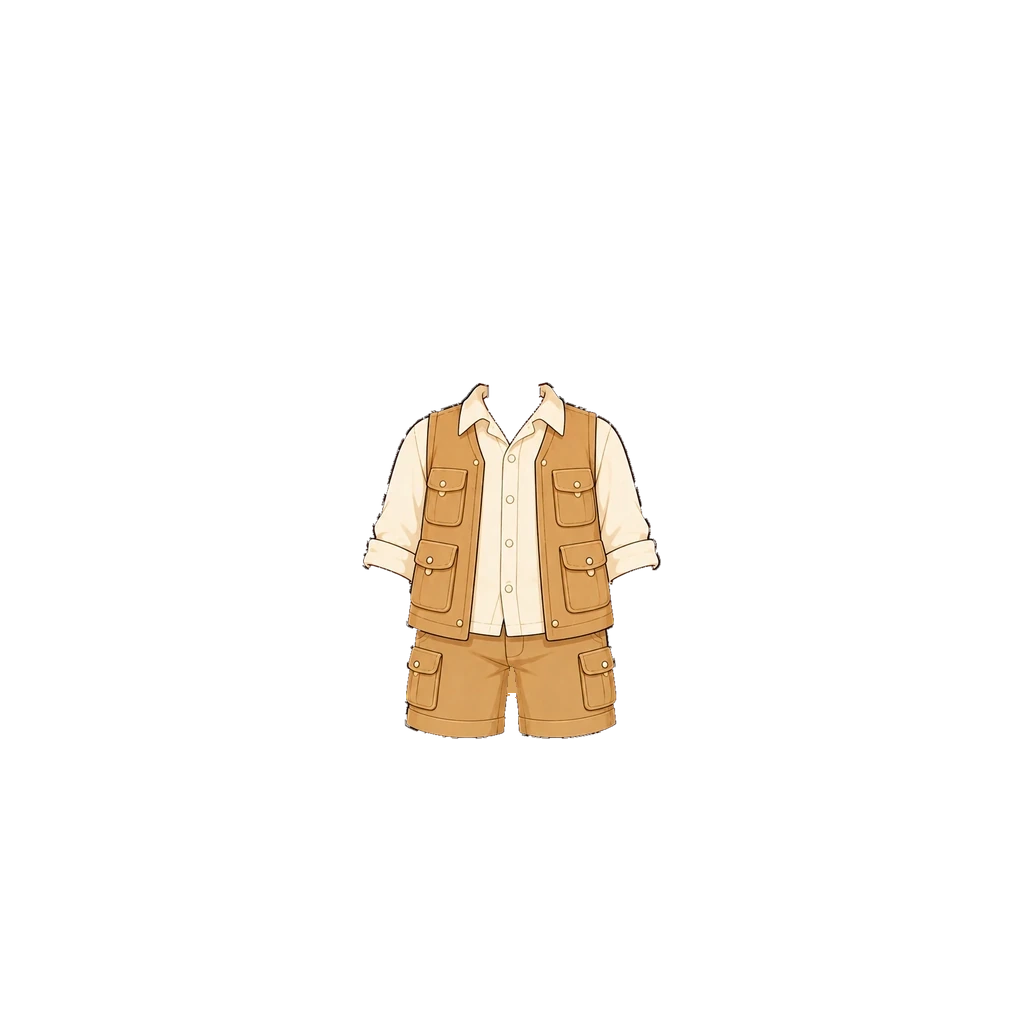
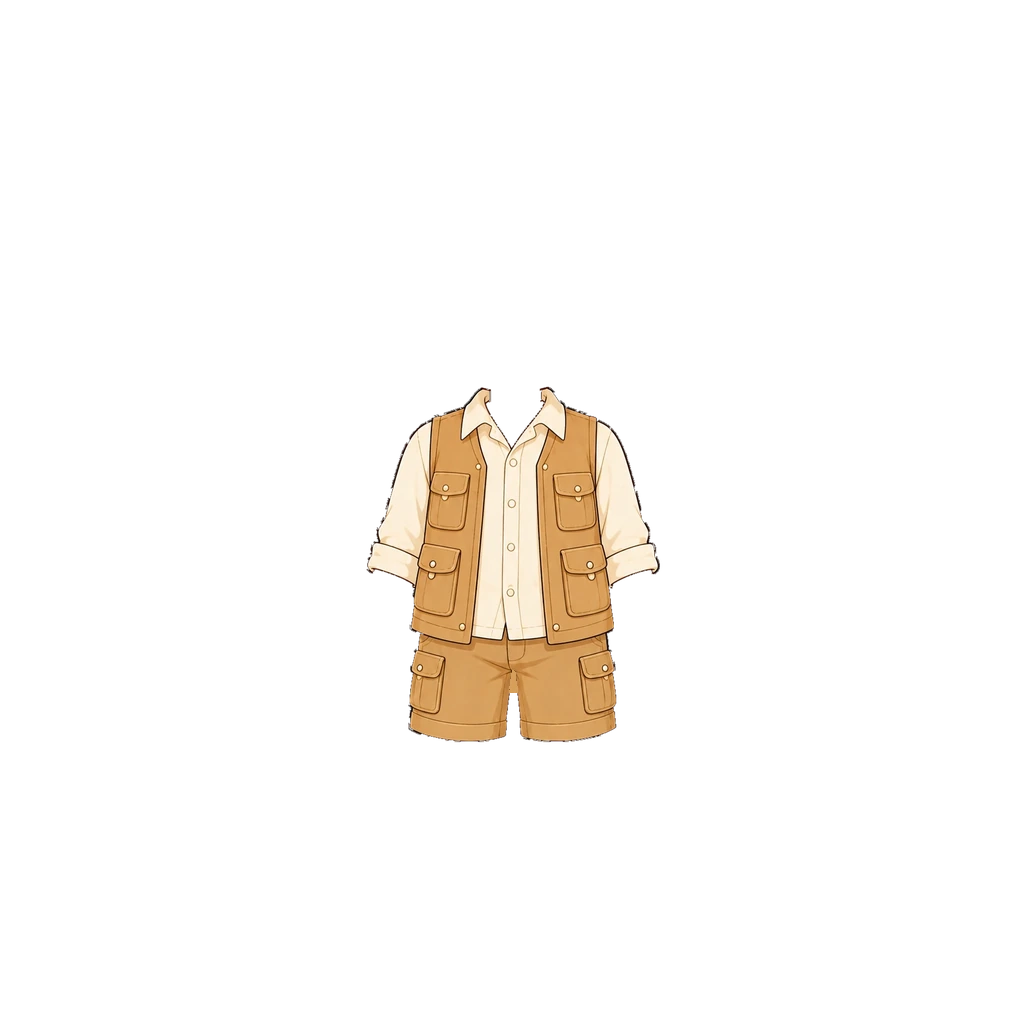
꾸미기: 남아 사파리 옷 소매 줄임 — 가로 중심이 어긋나 있었다 (#676)
먼저 확인한 것: 우주복에 있던 **살 조각 문제는 이 옷엔 없다.** 층이 연결 조각
1개(74,128px)에 살 픽셀 0이고, 썸네일도 깨끗하고, 어깨도 다 덮여 있었다.

대신 화면 크기(210px)에서 해적 옷과 나란히 놓으니 사파리만 소매가 헐렁했다.
실측하면 소매가 베이스 팔보다 y525~560 구간에서 좌 10~12px · 우 6~9px 밖으로
나가 있었다 (전 구간 합 불룩 1,841px).

예전 기록(README 2026-08-21)에는 "0.56·1.04 까지 줄이면 어깨에 맨살이 다시
보인다, 여기가 바닥"이라고 적혀 있었다. 다시 재 보니 **원인은 배율이 아니라
가로 중심**이었다 — 원화가 왼쪽으로 1.5px 치우쳐 있어서 512 에 맞추면 한쪽이
먼저 모자란다. 중심을 513 으로 옮기니 양쪽이 고르게 맞아 가로를 더 줄일 여유가
생겼다.

                 배율    가로배   깃 위끝   중심     불룩    맨살
  예전          0.578    1.06     382    511.5   1,841      8
  현행          0.578    1.047    386     513      740     38
  → 탑재 상자 (364,384)-(663,745)

불룩이 60% 줄었고, 남은 맨살 38px 은 팔 가장자리 실오라기라 화면에서 안 보인다.

**가랑이 메움을 다시 했다** — 원화에서 새로 올리면 반바지 가랑이의 V 틈이 같이
돌아와 베이스의 흰 속옷이 비친다(실측 확인). README 에 적힌 같은 규칙으로
y600~725 · x486~546 에서 '베이스 불투명 + 옷 알파<250' 148px 을 반바지 색
(213,159,90) 으로 채웠다.

경로에 ?v=4 를 붙여 기존 기기의 캐시를 끊는다. 썸네일도 같은 방식으로 다시 뽑았다
(134×160 → 133×160).

검증
  · AvatarViewer 로 남아·여아 입은 모습 + 상점 카드 — 그림 10개 전부 로드,
    페이지 에러 0건
  · 가랑이 확대 비교로 흰 속옷이 안 비치는 것 확인
  · vite build 통과

Claude-Session: https://claude.ai/code/session_018maNuYqDfFyRSe9uKpZhPR

Changed region(s): [[0.3438, 0.375, 0.6562, 0.7188], [0.5312, 0.7188, 0.5625, 0.75], [0.4375, 0.7188, 0.4688, 0.75]]

diff --git a/src/data/avatarEquipment.js b/src/data/avatarEquipment.js
@@ -174,7 +174,7 @@ export const AVATAR_CATALOG = [
      [2026-08-21] 가랑이 V 틈으로 베이스 흰 속옷이 비쳐서 그 자리만 반바지 색으로 메웠다.
      옷걸이에 건 모양이라 어깨선이 처져 있어서, 깃을 기본 반팔티 자리(y411)에 맞추면
      어깨 위에 맨살 띠가 남는다. 세로를 올려야 없어진다. */
-  { id: "top_vest",       slot: "top",   label: "사파리 옷",   emoji: "🦺", price:DECOR_PRICE.rare, rarity: "rare",   theme: "adventure", coversBottom: true, img: "assets/avatar/top/safari-outfit-boy.webp?v=3", imgGirl: "assets/avatar/top/safari-outfit-girl.webp?v=2", thumb: "assets/avatar/thumb/top_vest.webp", thumbGirl: "assets/avatar/thumb/top_vest-girl.webp" },
+  { id: "top_vest",       slot: "top",   label: "사파리 옷",   emoji: "🦺", price:DECOR_PRICE.rare, rarity: "rare",   theme: "adventure", coversBottom: true, img: "assets/avatar/top/safari-outfit-boy.webp?v=4", imgGirl: "assets/avatar/top/safari-outfit-girl.webp?v=2", thumb: "assets/avatar/thumb/top_vest.webp", thumbGirl: "assets/avatar/thumb/top_vest-girl.webp" },
 
   /* ── 딸기 소풍 · 별빛 마법사 (여아) — 사용자 원화 2026-08-19 ─────────────
      이 두 벌은 원화를 **베이스 v7 여아가 입은 전신 그림**으로 받았다. 그래서 배율을
